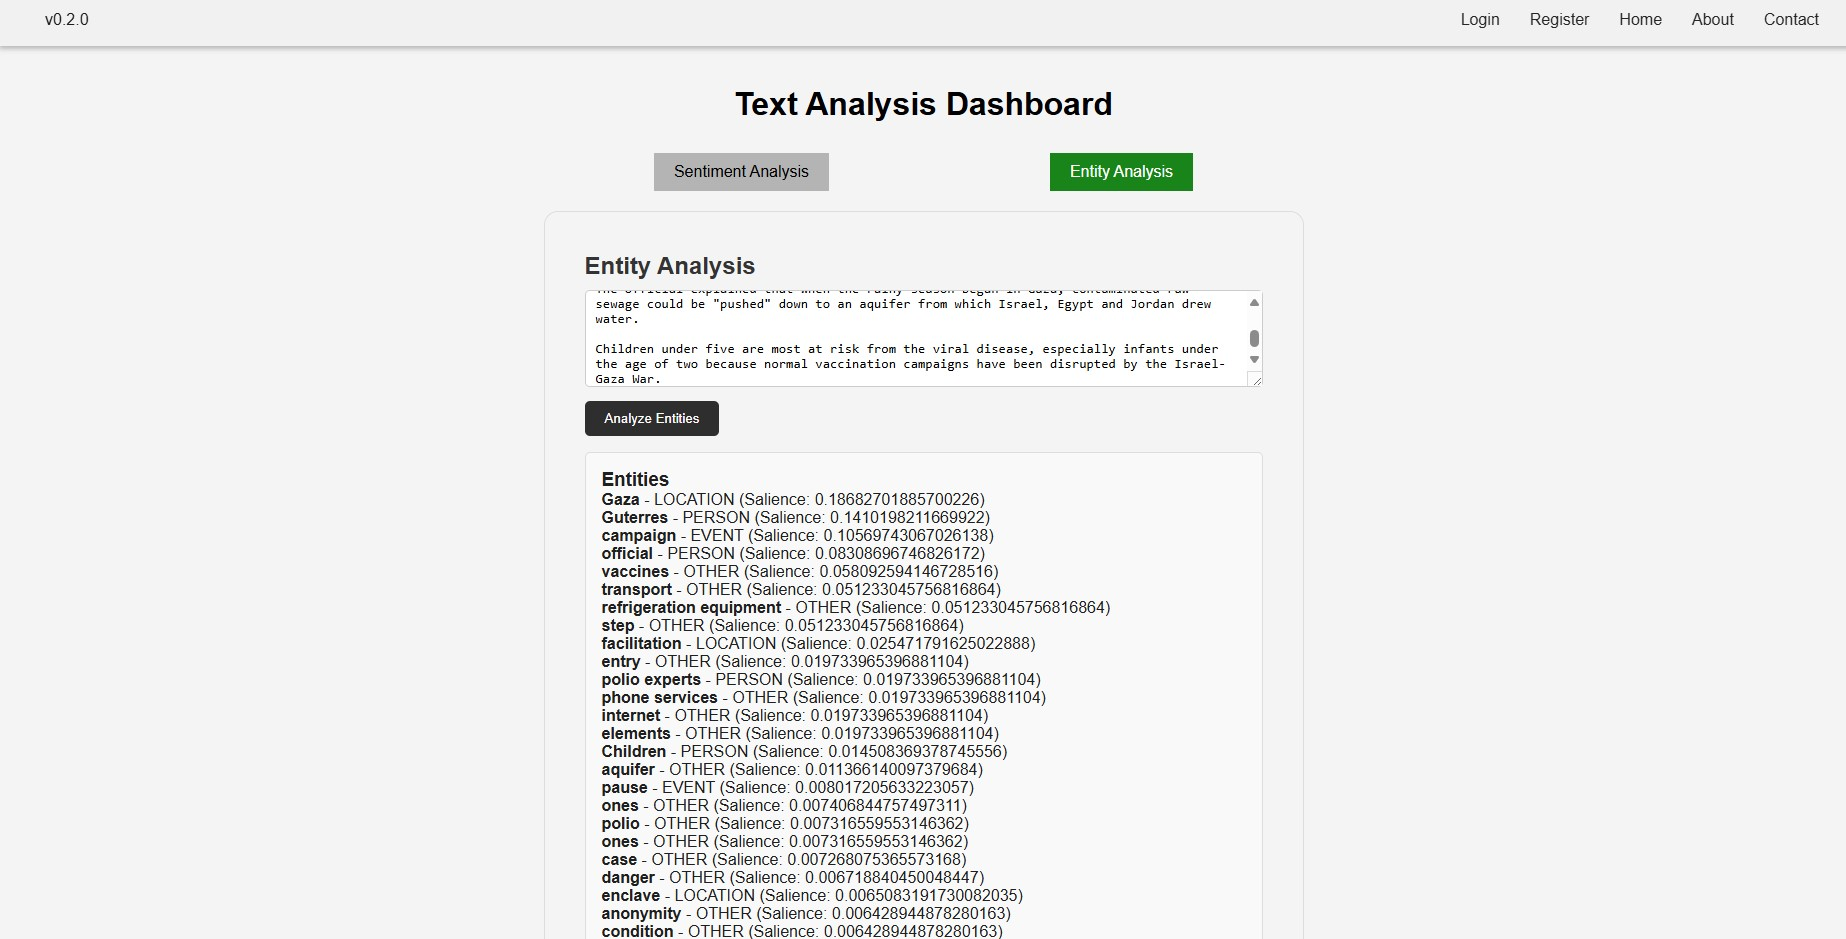
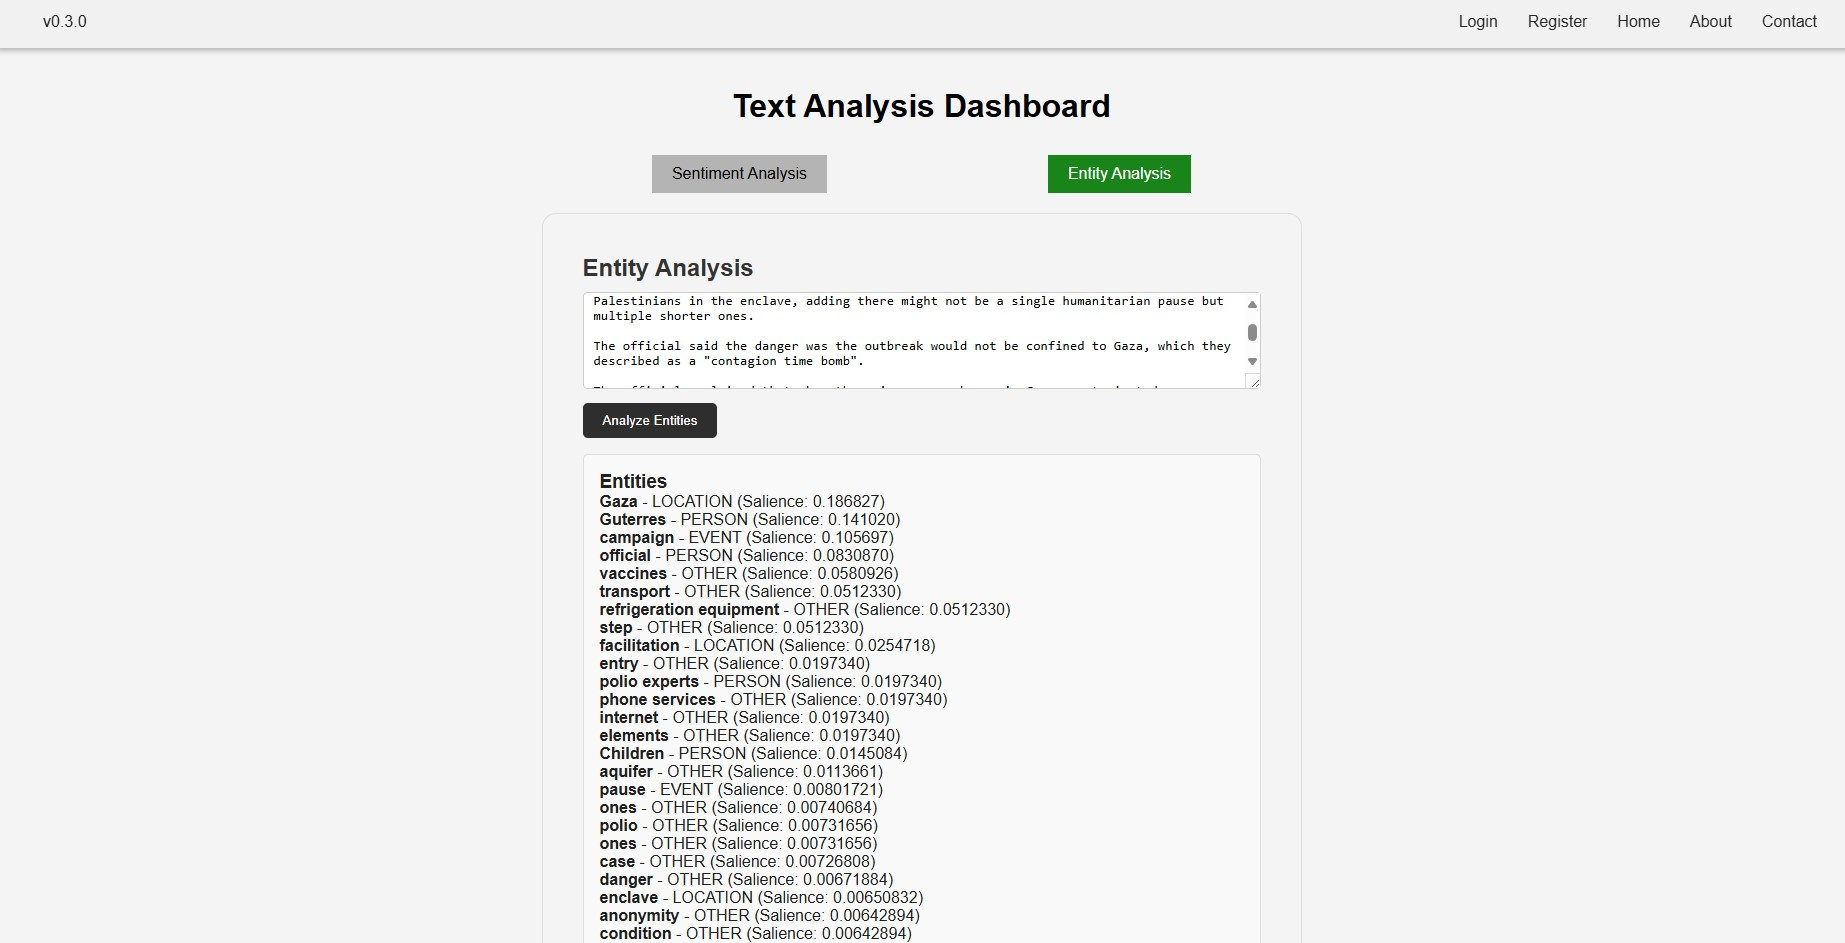
Minor adjustments - salience significant figure to 6, replaced screenshots with correct versions,

diff --git a/src/components/EntityAnalysis.tsx b/src/components/EntityAnalysis.tsx
@@ -50,7 +50,7 @@ const EntityAnalysis: React.FC = () => {
                     <ul>
                         {entities.map((entity, index) => (
                             <li key={index}>
-                                <strong>{entity.name}</strong> - {entity.type} (Salience: {entity.salience})
+                                <strong>{entity.name}</strong> - {entity.type} (Salience: {entity.salience.toPrecision(6)})
                             </li>
                         ))}
                     </ul>

diff --git a/src/components/Navbar/Navbar.tsx b/src/components/Navbar/Navbar.tsx
@@ -44,7 +44,7 @@ const Navbar:React.FC = () => {
                 </svg>
             </button>
 
-            <div className="navbar-brand">v0.2.0</div>
+            <div className="navbar-brand">v0.3.0</div>
 
             <div ref={panelRef} className={`navbar-panel ${isOpen ? 'open' : ''}`}>
                 <a className= "navbar-link" href="/login">Login</a>
